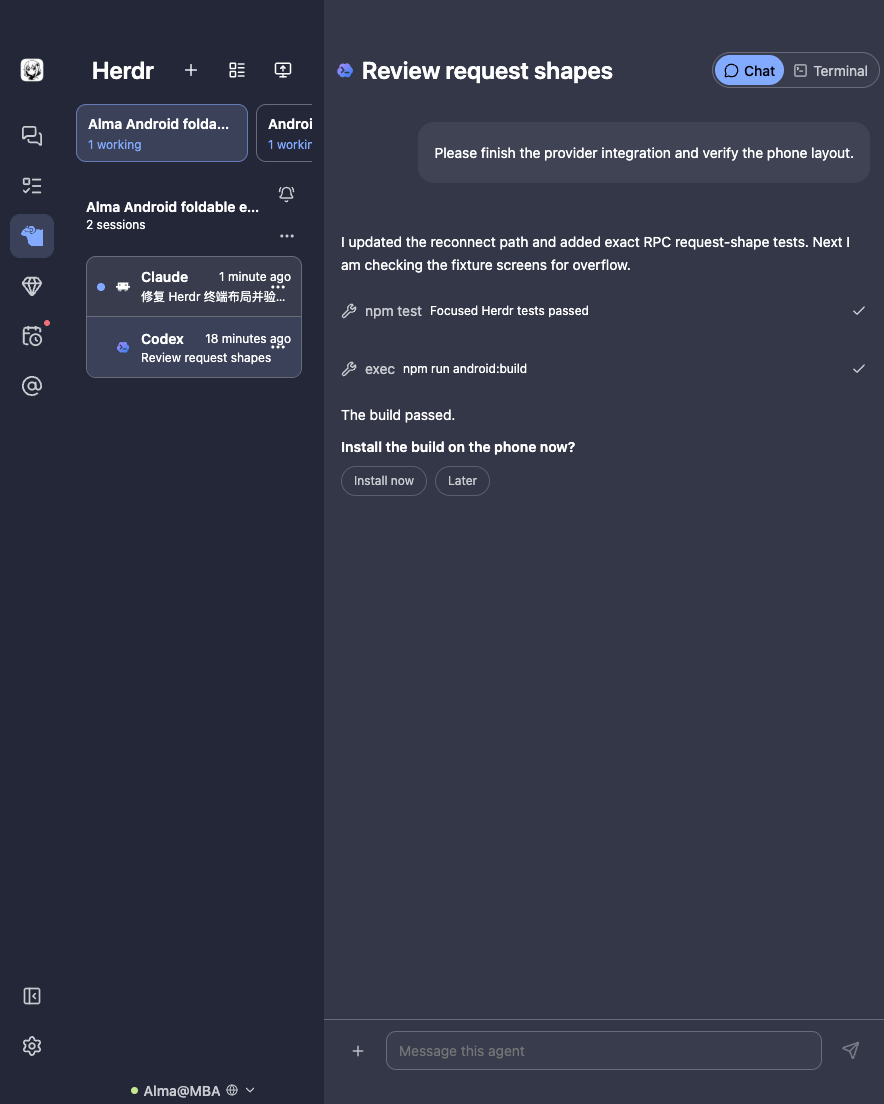
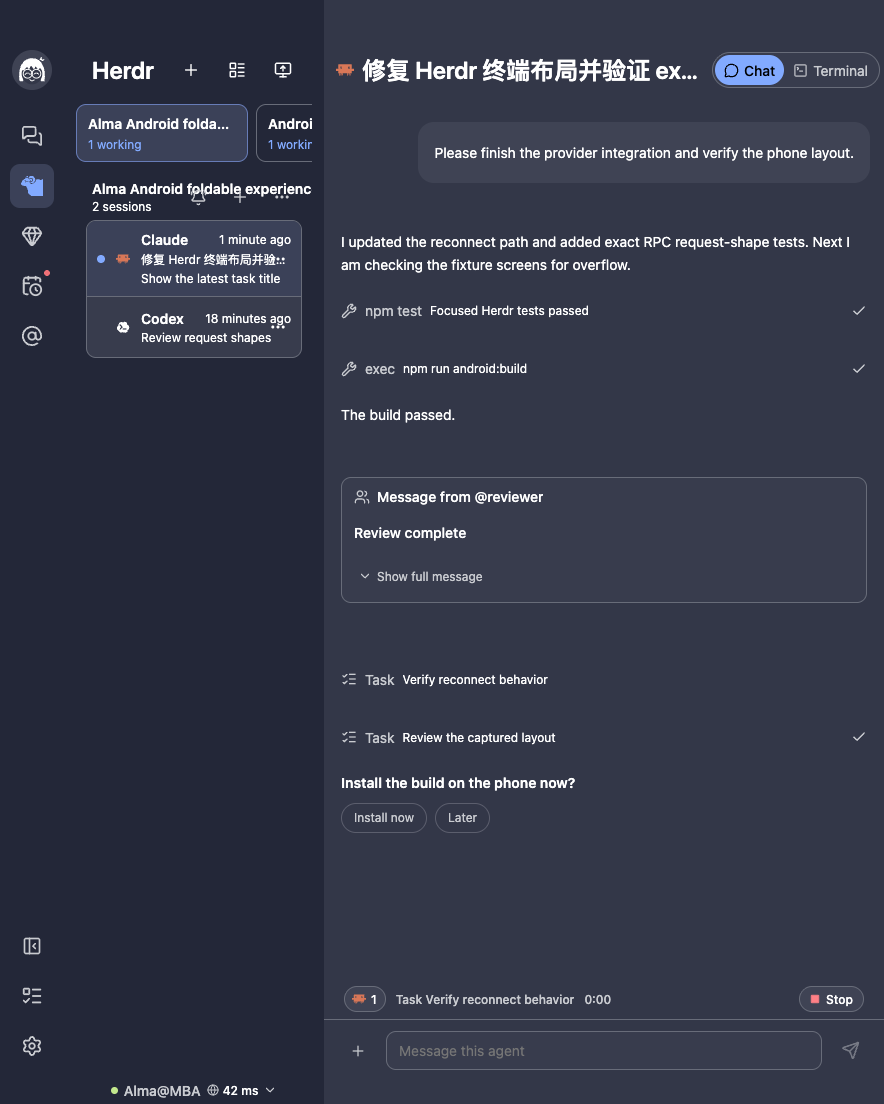
docs: refresh README and screenshots for 0.1.8
New shots for Alma's conversation, the floating tab bar with her thought
bubble, the long-press preview card, remote desktop zoom and the screen
picker, and Alma docked on an unfolded rail; the rest are recaptured on
the 0.1.8 UI. Feature text now describes the current app instead of
per-release notes.

diff --git a/README.md b/README.md
@@ -10,31 +10,37 @@ An unofficial Android client for [Alma Desktop](https://alma.now). Pair it with 
 
 ## Screenshots
 
-| Threads                                                             | Conversation                                                        |
-| ------------------------------------------------------------------- | ------------------------------------------------------------------- |
-| ![Threads list](docs/screenshots/threads.png)                       | ![Conversation with a code block](docs/screenshots/thread-code.png) |
-| Settings (简体中文)                                                 | Files and diffs                                                     |
-| ![Settings in Simplified Chinese](docs/screenshots/settings-zh.png) | ![Thread files and diff](docs/screenshots/files-diff.png)           |
+| Threads and the floating tab bar                                                                 | Alma                                                                                                   |
+| ------------------------------------------------------------------------------------------------ | ------------------------------------------------------------------------------------------------------ |
+| ![Thread list with the floating tab bar and Alma's thought bubble](docs/screenshots/threads.png) | ![Alma's conversation with her face in the header](docs/screenshots/alma.png)                          |
+| Conversation                                                                                     | Long-press preview and actions                                                                         |
+| ![Conversation with a code block](docs/screenshots/thread-code.png)                              | ![Reply preview card above the message actions with Retry reply](docs/screenshots/message-actions.png) |
+| Files and diffs                                                                                  | Settings (简体中文)                                                                                    |
+| ![Thread files and diff](docs/screenshots/files-diff.png)                                        | ![Settings in Simplified Chinese](docs/screenshots/settings-zh.png)                                    |
 
-### Herdr agents, Mac screen and updates
+### Herdr agents, remote desktop and updates
 
-| Herdr sessions                                                              | Answer an agent's menu                                                        |
-| --------------------------------------------------------------------------- | ----------------------------------------------------------------------------- |
-| ![Herdr board of workspaces and sessions](docs/screenshots/herdr-board.png) | ![Agent permission menu in the chat view](docs/screenshots/herdr-blocked.png) |
-| Mac screen                                                                  | In-app updates                                                                |
-| ![Controlling the Mac screen](docs/screenshots/mac-screen.png)              | ![Update panel with release notes](docs/screenshots/updates.png)              |
+| Herdr sessions                                                                | Answer an agent's menu                                                             |
+| ----------------------------------------------------------------------------- | ---------------------------------------------------------------------------------- |
+| ![Herdr board of workspaces and sessions](docs/screenshots/herdr-board.png)   | ![Agent permission menu in the chat view](docs/screenshots/herdr-blocked.png)      |
+| Remote desktop, trackpad control at 1:1                                       | Choose a display or window                                                         |
+| ![Controlling the Mac screen, zoomed to 1:1](docs/screenshots/mac-screen.png) | ![Screen picker with displays and app windows](docs/screenshots/screen-picker.png) |
+| In-app updates                                                                |                                                                                    |
+| ![Update panel with release notes](docs/screenshots/updates.png)              |                                                                                    |
 
 ### Foldables
 
-Unfolded, the app switches to a two-pane layout with a navigation rail, the thread list and the open conversation side by side; the thread list can be collapsed to give the conversation the full width. Folding and unfolding plays a frosted transition between the cover and inner screens.
+Unfolded, the app switches to a two-pane layout with a navigation rail, the thread list and the open conversation side by side; the thread list can be collapsed to give the conversation the full width. Alma's face sits in the rail's top corner; opening her takes everything right of the rail, with her face docked across the rail edge. Folding and unfolding plays a frosted transition between the cover and inner screens.
 
-| Unfolded, thread list collapsed                                                                                            | Unfolded, 简体中文                                                                                 |
-| -------------------------------------------------------------------------------------------------------------------------- | -------------------------------------------------------------------------------------------------- |
-| ![Unfolded layout with the thread list collapsed to the rail, reply in progress](docs/screenshots/foldable-generating.png) | ![Two-pane layout in Simplified Chinese](docs/screenshots/foldable-zh.png)                         |
-| Herdr, chat view                                                                                                           | Herdr, terminal with scrollback                                                                    |
-| ![Herdr sessions beside an agent's chat](docs/screenshots/foldable-herdr-chat.png)                                         | ![Herdr terminal in grid layout with earlier output](docs/screenshots/foldable-herdr-terminal.png) |
+| Alma, docked on the rail                                                                           | Unfolded, thread list collapsed                                                                                            |
+| -------------------------------------------------------------------------------------------------- | -------------------------------------------------------------------------------------------------------------------------- |
+| ![Alma's conversation beside the rail with her face docked](docs/screenshots/foldable-alma.png)    | ![Unfolded layout with the thread list collapsed to the rail, reply in progress](docs/screenshots/foldable-generating.png) |
+| Unfolded, 简体中文                                                                                 | Herdr, chat view                                                                                                           |
+| ![Two-pane layout in Simplified Chinese](docs/screenshots/foldable-zh.png)                         | ![Herdr sessions beside an agent's chat](docs/screenshots/foldable-herdr-chat.png)                                         |
+| Herdr, terminal with scrollback                                                                    |                                                                                                                            |
+| ![Herdr terminal in grid layout with earlier output](docs/screenshots/foldable-herdr-terminal.png) |                                                                                                                            |
 
-Screenshots use synthetic fixture data and contain no real desktop content or pairing credentials.
+Screenshots use synthetic fixture data and contain no real desktop content or pairing credentials. They show the official Alma mascot art, © yetone / Alma (see [Third-party assets](#third-party-assets)). Regenerate them with `npm run screenshots -- docs/screenshots readme`.
 
 ## Install
 
@@ -53,7 +59,7 @@ The package name is `club.a_dobe.alma`. Settings › Updates can check, verify, 
 
 1. In Alma Desktop, open remote access and display its pairing link or QR code.
 2. In Alma Android, scan the QR code or paste the pairing link.
-3. Repeat to add another desktop; use the desktop switcher to move between them.
+3. Repeat to add another desktop. On phones, tap the desktop name in the Threads or Herdr title to switch; on tablets and unfolded phones the switcher sits at the foot of the thread list.
 
 The pairing link grants full access to that desktop. Treat it like a password: do not share it, paste it into an issue, or include it in logs.
 
@@ -61,23 +67,24 @@ The app connects through Alma's official relay and, when the phone and desktop s
 
 ## Features
 
-- Threads, projects, and GTD views
+- **Alma, your personal agent:** on Alma desktop 0.4.407+, Alma's face sits in the middle of the tab bar (and in the rail's top corner on wide screens). She opens as her own messenger-style conversation, with a status line for what she is doing, and while she works a small thought bubble now and then shows an emoji for her current step. Her face uses the official Alma mascot art wearing this app's glasses, with a vector face as the fallback.
+- **Floating tab bar:** on phones a capsule with Threads, Alma and Herdr; GTD and Settings are icon buttons in the Threads header, and the current desktop's name in the page title opens the desktop switcher.
+- Threads, projects (with project cards and Recent threads), and GTD views
 - Streaming replies, tool calls, approvals, and user questions
+- Long-press a message for a reduced preview card above its actions; retry a reply or resend a failed message from there
 - Composer controls for model, reasoning effort, goals, and loops
 - Thread file panel with diffs, plus HTML and Markdown previews
+- Rich previews: KaTeX math, Mermaid diagrams, audio and video, PDF, CSV/XLSX and DOCX
 - Code-block copy, Android Share-to-Alma, and an image gallery
+- **Herdr coding agents:** for desktops running Herdr, board and list views of workspaces and sessions. Each session has a Chat view drawn with the same message components as threads, and a Terminal view with Fit/Grid layouts, on-demand scrollback and virtual keys. Answer an agent's permission menu from the chat or the session list, use slash commands, follow subagents, mute noisy workspaces, and get an "Agent needs you" alert.
+- **Remote desktop:** watch a paired desktop's screen and control it as a trackpad (tap to click, hold then move to drag, two fingers to scroll or right-click), type text, and wake a sleeping display. Pinch to zoom 1–4x or switch between Fit and 1:1, pan with one finger, and on macOS pick another display or a single app window to stream.
+- **LAN direct:** on the same Wi-Fi the app talks to the desktop directly instead of through the relay; the switcher shows a Wi-Fi icon for LAN or a globe for the relay.
+- Multiple desktops with macOS, Windows or Linux icons and live latency
 - Desktop Base46 theme palettes
 - English and 简体中文, following the system language with a user override
 - Foldable layouts and a frosted screen-transition effect; optional live hinge angle through Shizuku, with estimation as the fallback
-- Local alerts when a reply finishes or an approval needs attention
-- **New in 0.1.3 — Herdr coding agents:** for desktops running Herdr, a Herdr tab with board and list views of workspaces and sessions. Each session has a Chat view drawn with the same message components as threads, and a Terminal view with Fit/Grid layouts, on-demand scrollback, virtual keys you can hide, and Enter-to-terminal input. Answer an agent's permission menu from the chat or straight from the session list, mute noisy workspaces, and get an "Agent needs you" alert.
-- **New in 0.1.3 — Mac screen:** watch a paired desktop's screen, take control with direct touch or trackpad mode, type text, switch desktops, and wake a sleeping display.
-- **New in 0.1.3 — In-app updates:** check GitHub Releases, read the notes, and install a SHA-256-verified APK without leaving the app.
-- **New in 0.1.3 — Background connection:** an optional foreground service keeps desktop connections and local alerts alive while the app is in the background.
-- **New in 0.1.4 — LAN direct:** on the same Wi-Fi the app talks to the desktop directly instead of through the relay, and the desktop switcher shows a Wi-Fi icon for LAN or a globe for the relay.
-- **New in 0.1.4 — Better Mac control:** a dedicated trackpad area; taps click, slides only move, two-finger tap right-clicks, two-finger slide scrolls, and long-press or double-tap-hold drags to select text.
-- **New in 0.1.4 — Desktop OS icons:** paired desktops show a macOS, Windows or Linux icon, and Mac screen explains when a desktop cannot share its screen.
-- Rich previews: KaTeX math, Mermaid diagrams, audio and video, PDF, CSV/XLSX and DOCX
+- Local alerts when a reply finishes or an approval needs attention, and an optional foreground service that keeps connections alive in the background
+- **In-app updates:** check GitHub Releases, read the notes, and install a SHA-256-verified APK without leaving the app
 
 ### Notification limitation
 
